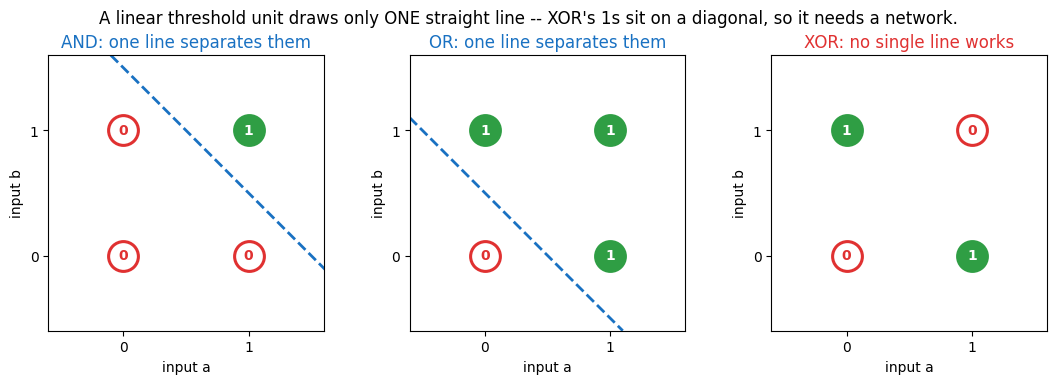
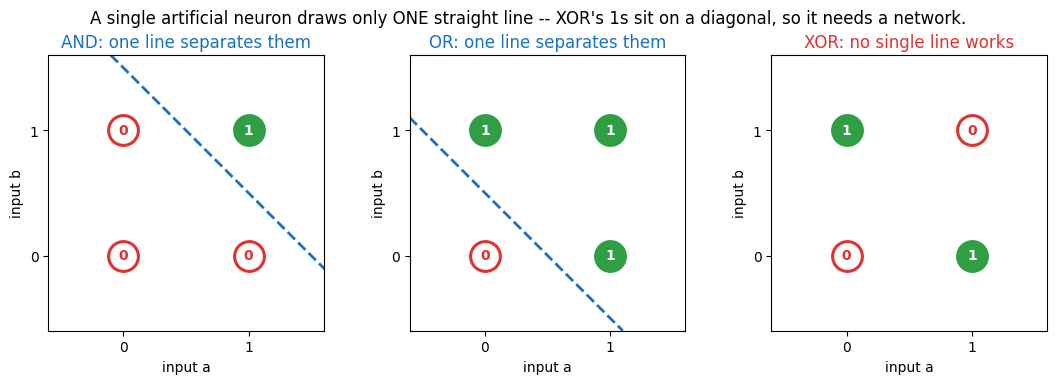
Reframe as artificial-neuron: biological neuron -> computational model
Rename to artificial-neuron and tell the story from its source: start from a
real neuron (dendrites/soma/axon-hillock/axon, excitatory vs inhibitory),
add a mermaid diagram of the biology and of the artificial neuron it inspired,
and a part-for-part mapping table. Note the artificial neuron is also the
threshold logic unit (TLU) / linear threshold unit (LTU). Notebook -> neuron.ipynb.
A paper reproduction made simple, and a primer in computational neuroscience.

Changed region(s): [[0.0624, 0.0312, 0.9054, 0.0625]]

diff --git a/README.md b/README.md
@@ -1,18 +1,54 @@
-# linear-threshold-unit
+# artificial-neuron
 
-A small, faithful reproduction of the paper that **invented the artificial neuron** — rebuilt in modern Python and **plotted** so you can *see* each idea:
+The paper that **created the first artificial neuron** — reproduced in modern Python and **plotted** so you can *see* each idea. It's a simple paper reproduction *and* a gentle primer in **computational modeling of neuroscience**: watch a biological neuron get turned into a few lines of math.
 
 > Warren S. McCulloch & Walter Pitts (1943). *A Logical Calculus of the Ideas Immanent in Nervous Activity.* Bulletin of Mathematical Biophysics 5:115–133. [doi:10.1007/BF02478259](https://doi.org/10.1007/BF02478259)
 
-The whole idea fits in **one neuron**, built up **one idea at a time** in a runnable notebook ([`ltu.ipynb`](./ltu.ipynb)) whose outputs and plots are saved so you can read it like a story. This README walks the same arc in plain language.
+The whole idea fits in **one neuron**, built up **one idea at a time** in a runnable notebook ([`neuron.ipynb`](./neuron.ipynb)) whose outputs and plots are saved so you can read it like a story.
 
 ---
 
-## The big idea
+## Where it came from: a real neuron
 
-A real neuron is **all-or-none**: in any instant it either *fires* or it *doesn't*. Nothing in between.
+McCulloch & Pitts started with the **biological neuron**. A neuron collects signals from other neurons through its **dendrites**, the **soma** (cell body) adds those signals together, and if the total is strong enough to cross a threshold at the **axon hillock**, the neuron "fires" an **all-or-none** spike down its **axon** to the next neurons. Some incoming connections are **excitatory** (push it toward firing); others are **inhibitory** (hold it back).
 
-McCulloch & Pitts noticed that "this neuron fired" is therefore just a **true / false** statement — so a **network of neurons is a circuit that computes logic** (AND, OR, NOT, and anything built from them). The unit they describe is a **linear threshold unit**: it adds up its inputs and fires once the total crosses a threshold.
+```mermaid
+flowchart LR
+    In([signals from<br/>other neurons]) --> Dend[Dendrites<br/>receive them]
+    Dend --> Soma[Soma<br/>adds them up]
+    Soma --> Hill{Axon hillock<br/>strong enough?}
+    Hill -->|yes| Spike[Axon fires an<br/>all-or-none spike]
+    Hill -->|no| Quiet[stays silent]
+    Inh([inhibitory<br/>synapse]) -. blocks .-> Hill
+```
+
+## Modeling it: the first artificial neuron
+
+Their insight: because a neuron is **all-or-none** (it fires or it doesn't), you can capture what it *does* in pure logic. Strip the biology down to its essentials and you get an **artificial neuron** — the same shape, now as something you can compute:
+
+```mermaid
+flowchart LR
+    I([inputs<br/>each 0 or 1]) --> Sum[sum the inputs]
+    Sum --> Th{total ≥ threshold?}
+    Th -->|yes| Fire[return 1 — fire]
+    Th -->|no| Silent[return 0 — silent]
+    Inh([inhibitory input]) -. forces 0 .-> Th
+```
+
+Part for part, the biology maps straight onto the code:
+
+| Biological neuron | What it does | In the artificial neuron (code) |
+|---|---|---|
+| Dendrites & synapses | receive signals from other neurons | the `inputs` list (each `0` or `1`) |
+| Excitatory vs. inhibitory synapse | nudge toward firing / block it | counted inputs vs. the `inhibited` veto |
+| Soma | adds the incoming signals together | `sum(inputs)` |
+| Axon hillock + threshold | fire only if the total is strong enough | `total >= threshold` |
+| Action potential (all-or-none) | a full spike, or nothing at all | returns `1` or `0` |
+| Axon | carries the output onward | the function's return value |
+
+**Modeling means keeping what matters and idealizing the rest.** McCulloch & Pitts made three big simplifications: every input counts equally (no varying synapse strengths), inhibition is absolute (one inhibitor always wins), and time runs in discrete ticks. Those choices are exactly what turn a messy biological cell into a clean piece of **logic** — and that act of rewriting a biological mechanism as something computable is the heart of computational neuroscience.
+
+> Because it applies a **threshold** to a **linear** sum of its inputs, this artificial neuron is also called a **threshold logic unit (TLU)** or a **linear threshold unit (LTU)**. *McCulloch–Pitts neuron, artificial neuron, TLU, LTU* — four names for the same object. The rest of this repo builds it.
 
 ### Words to know
 
@@ -20,16 +56,16 @@ McCulloch & Pitts noticed that "this neuron fired" is therefore just a **true / 
 - **threshold** — how large the input total must be to make the neuron fire.
 - **excitatory input** — an input that pushes the neuron *toward* firing (it gets counted).
 - **inhibitory input** — an input that *vetoes* firing (one active inhibitor is enough to silence it).
-- **linearly separable** — a problem you can solve by drawing one straight line between the “yes” and “no” cases. A linear threshold unit can only do these.
+- **linearly separable** — a problem you can solve by drawing one straight line between the “yes” and “no” cases. A single artificial neuron can only do these.
 
 ## 1. The neuron: count, then threshold
 
-The least a neuron could do: **add up its inputs, and fire if the total reaches a threshold.** No weights, no learning — just counting and a cutoff.
+Here is the whole biological story above, in three lines: **add up the inputs, and fire if the total reaches a threshold.** No weights, no learning — just counting and a cutoff.
 
 ```python
 def neuron(inputs, threshold):
-    total = sum(inputs)                     # count the inputs that are ON (the 1s)
-    return 1 if total >= threshold else 0   # fire if the total reaches the threshold
+    total = sum(inputs)                     # the SOMA: add up the inputs that are ON
+    return 1 if total >= threshold else 0   # the THRESHOLD: fire only if the total is big enough
 ```
 
 ## 2. The threshold alone picks the gate
@@ -46,7 +82,7 @@ def AND(a, b): return neuron([a, b], threshold=2)   # fires only if BOTH are on
 def OR(a, b):  return neuron([a, b], threshold=1)   # fires if EITHER is on
 ```
 
-Plotted, the jump from 0 to 1 is the **all-or-none threshold** — and AND simply jumps one step later than OR:
+Plotted (by calling the real `AND`/`OR` neurons), the jump from 0 to 1 is the **all-or-none threshold** — and AND jumps one step later than OR:
 
 ![Step plot: OR fires once one input is on (threshold 1); AND only once both are on (threshold 2)](images/threshold-gate.png)
 
@@ -54,11 +90,11 @@ Plotted, the jump from 0 to 1 is the **all-or-none threshold** — and AND simpl
 
 Try to build **NOT** — "fire when the input is *off*." You can't: adding inputs only ever pushes a neuron *toward* firing, never away from it.
 
-So the model adds a second kind of input — an **inhibitory** one. In 1943 it's *absolute*: **a single inhibitory signal vetoes firing entirely**, no matter the total.
+This is where the biological **inhibitory synapse** earns its place in the model. In 1943 it's *absolute*: **a single inhibitory signal vetoes firing entirely**, no matter the total.
 
 ```python
 def neuron(inputs, threshold, inhibited=False):
-    if inhibited:                           # one inhibitory signal stops it cold
+    if inhibited:                           # an inhibitory input vetoes everything
         return 0
     total = sum(inputs)
     return 1 if total >= threshold else 0
@@ -70,9 +106,9 @@ Now **NOT** is a neuron that's *on by default* (threshold `0`, no excitatory inp
 def NOT(a): return neuron([], threshold=0, inhibited=bool(a))
 ```
 
-## 4. Wire gates into a network → *any* logic (XOR)
+## 4. Wire neurons into a network → *any* logic (XOR)
 
-A single linear threshold unit draws exactly **one straight line** through the inputs — so it can only solve **linearly separable** problems. **XOR** ("one or the other, but not both") isn't one. Each panel below plots the four inputs, marked by output (filled = fires, hollow = silent); the question is whether one line can fence the `1`s off from the `0`s:
+A single artificial neuron draws exactly **one straight line** through its inputs — so it can only solve **linearly separable** problems. **XOR** ("one or the other, but not both") isn't one. Each panel plots the four inputs, marked by output (filled = fires, hollow = silent); the question is whether one line can fence the `1`s off from the `0`s:
 
 ![AND and OR are separable by a single straight line; XOR's 1s sit on a diagonal, so no single line works](images/linear-separability.png)
 
@@ -96,25 +132,25 @@ So far everything flows forward. Now **feed a neuron's output back into itself**
 
 This is the paper's second half ("nets with circles"), and it is how the network gains **state**. (They even show this looping trick can stand in for *learning* — Theorem VII.)
 
-## The whole neuron, in one place
+## The whole artificial neuron, in one place
 
-We grew it across the notebook; here it is complete. That's the entire McCulloch–Pitts linear threshold unit:
+We grew it across the notebook; here it is complete. That's the entire McCulloch–Pitts artificial neuron (a.k.a. threshold logic unit):
 
 ```python
 def neuron(inputs, threshold, inhibited=False):
     if inhibited:                           # absolute inhibition: one veto stops it
         return 0
-    total = sum(inputs)                     # count the active excitatory inputs
-    return 1 if total >= threshold else 0   # fire if the count meets the threshold
+    total = sum(inputs)                     # the soma: count the active excitatory inputs
+    return 1 if total >= threshold else 0   # the threshold: fire if the count is big enough
 ```
 
 ## Why it matters
 
-Put it together and a network of these units is exactly a **finite-state machine** — logic plus memory. McCulloch & Pitts close with the famous result:
+A handful of lines, copied from a brain cell — and a network of them is exactly a **finite-state machine** (logic + memory). McCulloch & Pitts close with the famous result:
 
 > a net "furnished with a tape, scanners… and suitable efferents… can compute only such numbers as can a Turing machine."
 
-In other words: **network + an external memory tape = a universal computer.** This paper is the bridge from *brains* to *computers* — written in 1943, before either modern neuroscience or the digital computer existed — and it is the unit every artificial neuron since is built on.
+So **network + an external memory tape = a universal computer.** By modeling one biological neuron as pure logic, they built the bridge from *brains* to *computers* — and the artificial neuron that every neural network since is made of.
 
 ## Run it
 
@@ -122,10 +158,10 @@ Open the notebook and run the cells top to bottom:
 
 ```bash
 pip install jupyter matplotlib
-jupyter notebook ltu.ipynb
+jupyter notebook neuron.ipynb
 ```
 
-The outputs and plots are already saved in the notebook, so you can also just **read it rendered on GitHub** — every cell shows its result. It builds the neuron up step by step (AND / OR / NOT / XOR and a memory loop), plots each idea, and self-checks every result against the paper. The cells use only the Python standard library plus **matplotlib** for the plots.
+The outputs and plots are already saved in the notebook, so you can also just **read it rendered on GitHub** — every cell shows its result. The cells use only the Python standard library plus **matplotlib** for the plots.
 
 ## Original paper
 
